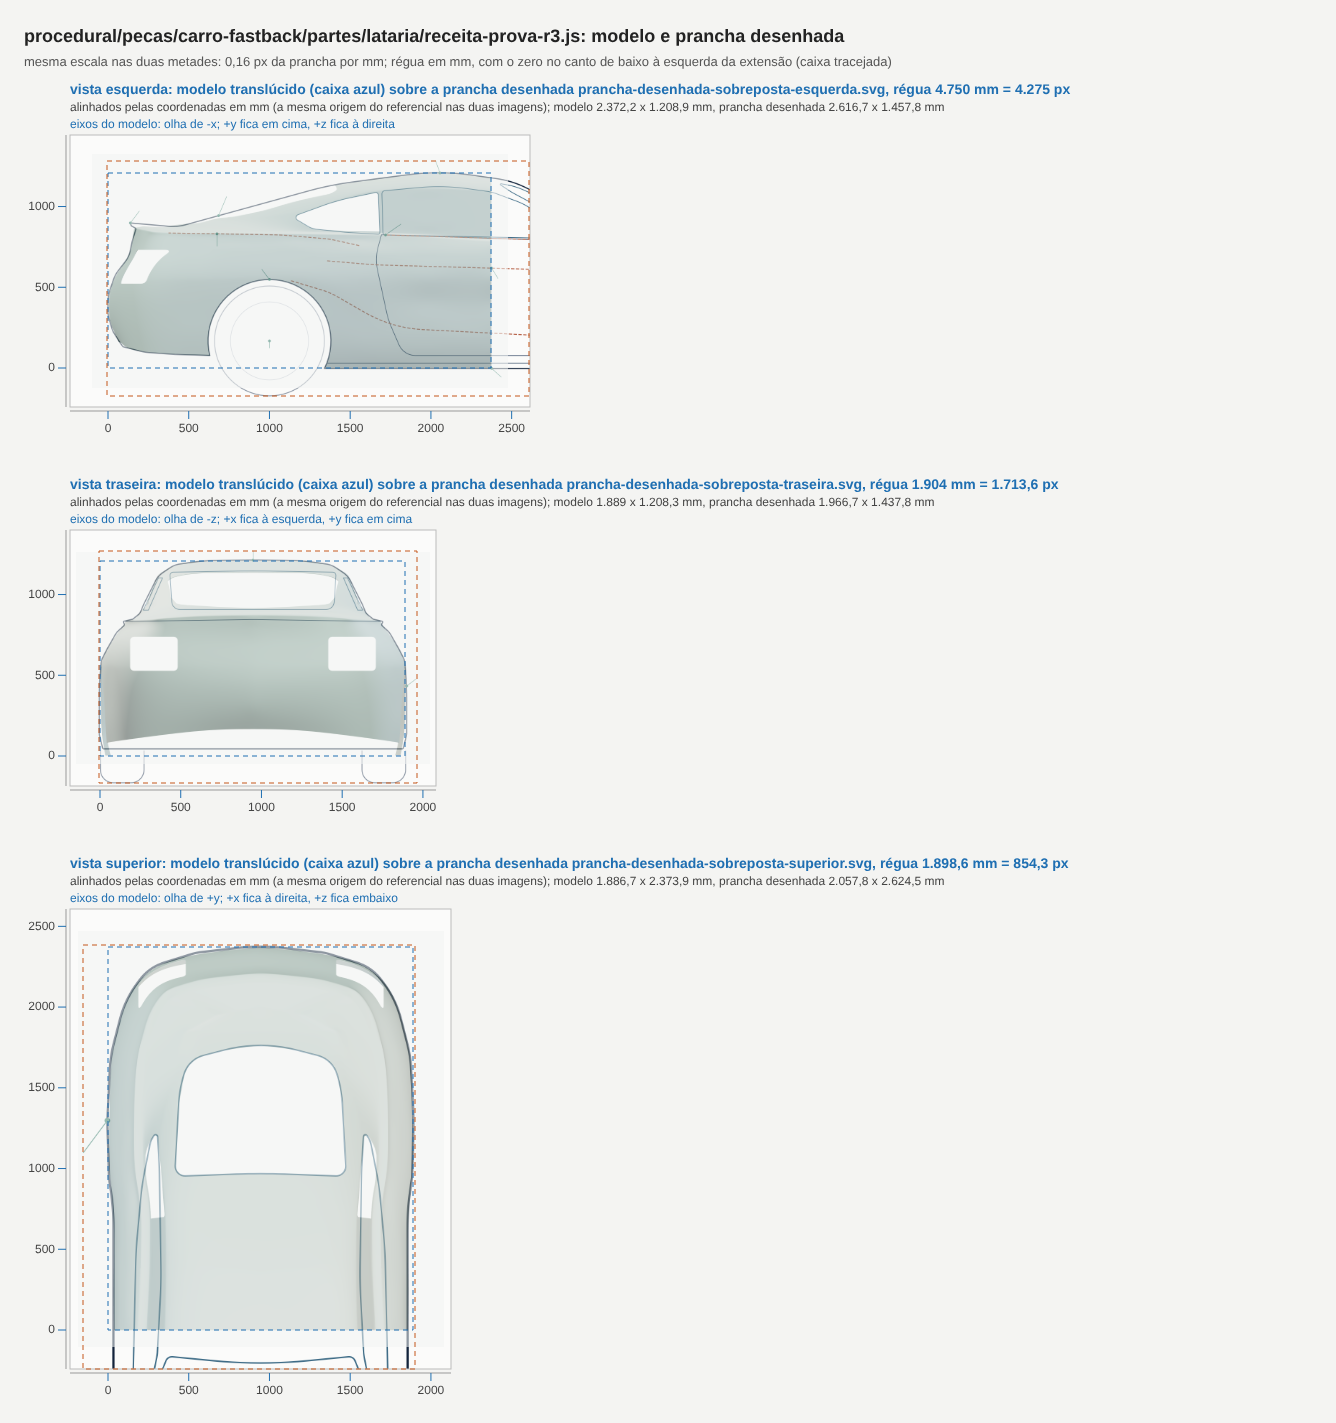
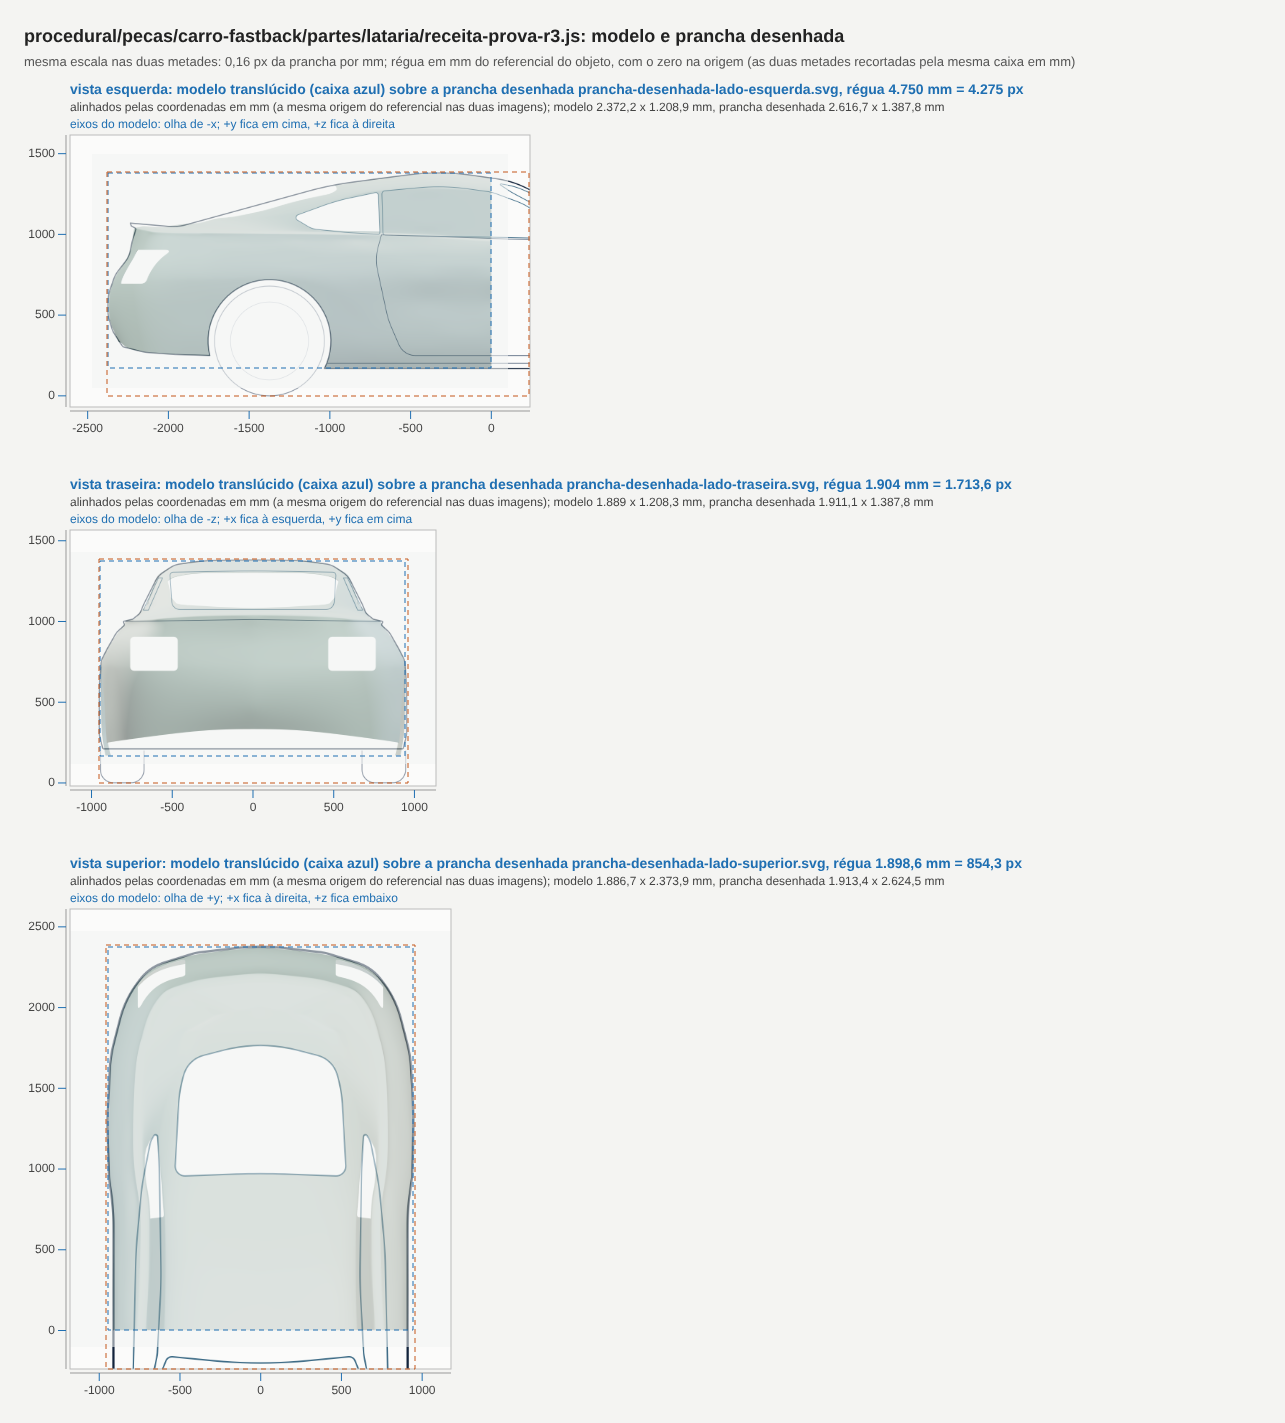
Comparar com a referência: o registro da correção da revisão, com as imagens do carro e o limite da cobertura
Claude-Session: https://claude.ai/code/session_015i1y8CrgTgEfwGG2HEX8g8

diff --git a/docs/modelar/banco-de-provas/comparar-com-a-referencia-2026-11-16/README.md b/docs/modelar/banco-de-provas/comparar-com-a-referencia-2026-11-16/README.md
@@ -314,8 +314,10 @@ Duas mudanças. A primeira é o aviso: toda referência citada que não é image
 
 A vista do modelo vem do lado que `CRITICA.referencias` declara para o arquivo, ou do lado no nome, pela mesma convenção das outras referências: sem orientação, `lateral` é a vista esquerda (olha de -x), que é o lado que a lateral do carro desenha ("lado -x, frente à direita"), e não a direita. Uma prancha cujo desenho está girado em relação à vista (a superior do carro traça o comprimento na horizontal, e a vista superior do modelo o tem na vertical) leva `CRITICA.pranchas`, como `{ 'superior.prancha.svg': { girar: 90 } }`, com os graus no sentido horário; o pedido diz que o desenho foi girado. Quando o lado veio do nome e não de declaração, o pedido diz que foi presumido e pede ao crítico que diga se os contornos aparecem espelhados.
 
-Decisão sobre o veredito: sem esboço refinado, o `alvo` do veredito é a imagem da prancha (a de `lado`), e não uma referência. A prancha é um desenho cotado, na mesma escala do modelo e no referencial dele, e é o contra o quê a receita foi construída, e não uma foto do objeto real em outra escala; por isso o pedido a descreve assim e não repete o texto de "objeto real em outra escala". Com esboço refinado, o alvo continua sendo a composta do esboço, e a prancha entra como medida em mm além dele. No pedido fechado cada prancha dá uma pergunta de forma, `Na vista V do modelo, a silhueta de lado segue a da prancha desenhada`.
+Decisão sobre o veredito: sem esboço refinado, o `alvo` do veredito é o próprio `.prancha.svg` que o plano cita, com o caminho do repositório. A primeira versão mandava pôr a imagem `prancha-desenhada-lado.png` de `tools/bancadas/out/`, que o `alvoDoRepositorio` de `rodada-de-modelagem.mjs` recusa; o teste agora liga o texto do pedido a essa função. A prancha é um desenho cotado, na mesma escala do modelo e no referencial dele, e é o contra o quê a receita foi construída, e não uma foto do objeto real em outra escala; por isso o pedido a descreve assim. Com esboço refinado, o alvo continua sendo a composta do esboço, e a prancha entra como medida em mm além dele. No pedido fechado cada prancha dá uma pergunta de forma, `Na vista V do modelo, a silhueta segue a da prancha desenhada`.
 
-O alinhamento é pelas coordenadas em mm, e não pelo centro das extensões. O relatório da prancha dá a caixa do desenho no referencial do objeto, e a bancada dá a projeção da origem do modelo; com isso a origem em mm tem posição em px nas duas imagens. `alinharPelasCoordenadas` recorta o desenho pela caixa do modelo naquela vista, com 10% de margem da maior extensão (`MARGEM_DO_RECORTE`), e as duas imagens, em `lado` e em `sobreposta`, mostram o mesmo trecho: o quarto traseiro do carro (2.372 mm) cai sobre a metade de trás do desenho (4.750 mm), e a sobreposição vale para peça que é parte do objeto. Se o modelo não cabe na caixa do desenho (com 5% de folga) ou a bancada não dá a origem, a função recusa com o motivo, o alinhamento cai no centro das extensões, e o pedido e o aviso o dizem. Os títulos das metades saem inteiros: a largura da imagem passou a contar o texto de cada título.
+O alinhamento é pelas coordenadas em mm, e não pelo centro das extensões, e só liga quando a receita declara `CRITICA.pranchas['<arquivo>'] = { referencial: true }`, isto é, que a peça está no referencial em mm do desenho: a peça de referencial próprio ou em pose de montagem recortaria o lugar errado sem aviso, e sem a declaração o alinhamento cai no centro, dizendo isso no pedido e no aviso. O relatório da prancha dá a caixa do desenho no referencial do objeto, e a bancada dá a projeção da origem do modelo; com isso a origem em mm tem posição em px nas duas imagens. `alinharPelasCoordenadas` recorta as duas metades pela mesma caixa em mm, a do modelo naquela vista com 10% de margem da maior extensão, e as réguas de `lado` e de `sobreposta` são em mm do referencial, com o zero na origem e os mesmos valores nas duas metades; o quarto traseiro do carro (2.372 mm) cai sobre a metade de trás do desenho (4.750 mm). Se o modelo passa da caixa do desenho (com 5% de folga), a função diz em quantos mm e para que lado, o alinhamento cai no centro e o pedido e o aviso o dizem. A caixa do alinhamento vai ao relatório da prancha e ao pedido. Uma captura da bancada dá `lado` e `sobreposta`, e cada prancha é lida e recusada por si, de modo que uma ruim não derruba as outras.
 
-A prova está no teste da fixture `tools/fixtures/comparar-com-prancha/` (um bloco cujo plano cita um `.prancha.svg` com relatório e um `alvo.md`), em `vistas-para-critica.test.mjs`, que falhava antes (o pedido dizia que o plano não citava imagem e o `alvo.md` não gerava aviso) e passa agora, e em `prancha-de-referencia.test.mjs`, para a leitura da escala, a origem em mm, o recorte, o alinhamento pelas coordenadas e pelo centro, a largura dos títulos, a recusa de relatório de outra rodada e a rotação. No carro, com a receita da rodada 3 (`7773e556`) copiada para um caminho de teste, `npm run vistas:critica -- <receita> --sem-medir --prazo=400` deu o aviso das pranchas e, na primeira tentativa, o aviso de que as duas imagens não saíram (o `createImageBitmap` não lia o SVG, e o aviso o disse), o que fez a correção. Depois a prancha, chamada pelo mesmo `pranchaDoPlano` com a bancada real e `girar: 90` na superior, saiu com as três vistas alinhadas pelas coordenadas, e a imagem [prancha-desenhada-carro-lado.png](prancha-desenhada-carro-lado.png) (e a [sobreposta](prancha-desenhada-carro-sobreposta.png)) mostra, a 0,16 px/mm nas duas metades, a traseira do carro no mesmo lado e o mesmo trecho nas duas: o arco da roda traseira sobre a roda do desenho, o vidro e o pilar na lateral, a janela traseira e as lanternas na vista de trás, e o vidro e o tampo na vista de cima. O carro precisa declarar `CRITICA.pranchas` para a superior, o que é arquivo do plano dele e fica à espera. A ferramenta não confere sozinha se o desenho está espelhado ou girado contra a vista; o aviso de lado presumido e a imagem são o que há, e a origem em mm assume que, na imagem já girada, o h do desenho cresce para a direita e o v para cima como no modelo, o que vale nas três pranchas do carro, simétricas em torno da origem.
+Depois do alinhamento a ferramenta mede a fração da silhueta do modelo que cai dentro do contorno do desenho (o que a água não alcança vindo da borda da imagem do desenho, com os traços engrossados de 1 px) e avisa abaixo de 85% (`LIMITE_DA_COBERTURA`): o lado ou o giro declarados errados passam a aparecer. O desenho é recusado se o `viewBox` não tem origem 0 0, se `width` ou `height` diferem dele ou se há `<g transform>`; as duas escalas (px do contorno contra mm do relatório) precisam concordar em 0,5% (as do carro concordam a 0,003%). Limitação registrada: um relatório cuja caixa em mm está deslocada de uma constante, com o mesmo tamanho, não é detectável sem a origem gravada pelo script da prancha, e o script é do plano do carro; a cobertura da silhueta é o que pegaria o deslocamento grande, e não o pequeno. O `.contornos.json` citado no plano não entra no aviso de referência ignorada, porque o pacote o lê. As linhas de eixo, de curva de caráter, de corte e as marcas saem da imagem do desenho, e o pedido diz isso; o pedido também não afirma mais uma tolerância do plano que não existe.
+
+A prova está nos testes da fixture `tools/fixtures/comparar-com-prancha/` (`vistas-para-critica.test.mjs`, que liga o texto do pedido ao `alvoDoRepositorio` e confere o aviso, o motivo do centro e a cobertura) e em `prancha-de-referencia.test.mjs`, que roda o `prancharDesenhadas` real no Chromium com a bancada simulada e confere a caixa em mm no relatório (sem "undefined"), a cobertura, as réguas iguais nas duas metades e a recusa do desenho com `viewBox` deslocado, `width` diferente ou grupo com transformação. No carro (receita da rodada 3, `7773e556`, copiada para um caminho de teste, com `referencial: true` e `girar: 90` na superior), a mesma `pranchaDoPlano` do pacote deu as três vistas alinhadas pelas coordenadas, sem avisos e com cobertura de 100%, 99,8% e 100%; a imagem [prancha-desenhada-carro-lado.png](prancha-desenhada-carro-lado.png) tem as duas metades recortadas pela mesma caixa, com as réguas em mm do referencial iguais nas duas (de -2.500 a 0 mm na lateral, de -1.000 a 1.000 na traseira, de -1.000 a 1.000 por 0 a 2.500 na superior), e a [sobreposta](prancha-desenhada-carro-sobreposta.png) mostra o quarto traseiro sobre a metade de trás do desenho. Com a lateral declarada como `direita` a cobertura caiu a 82% e a ferramenta avisou; com `girar: 270` na superior ela não avisou (cobertura 99,8%), porque a silhueta em planta do carro é quase igual na frente e atrás e o modelo cai dentro do contorno da metade da frente: o limite da conferência é que ela vê o espelhamento e o deslocamento, e não o giro de 180 graus de um contorno simétrico. O carro precisa declarar `CRITICA.pranchas` (`referencial: true` nas três e `girar: 90` na superior) na receita da lataria, que é arquivo do plano dele e fica à espera; sem a declaração o pedido sai com o alinhamento pelo centro e o aviso do motivo.
